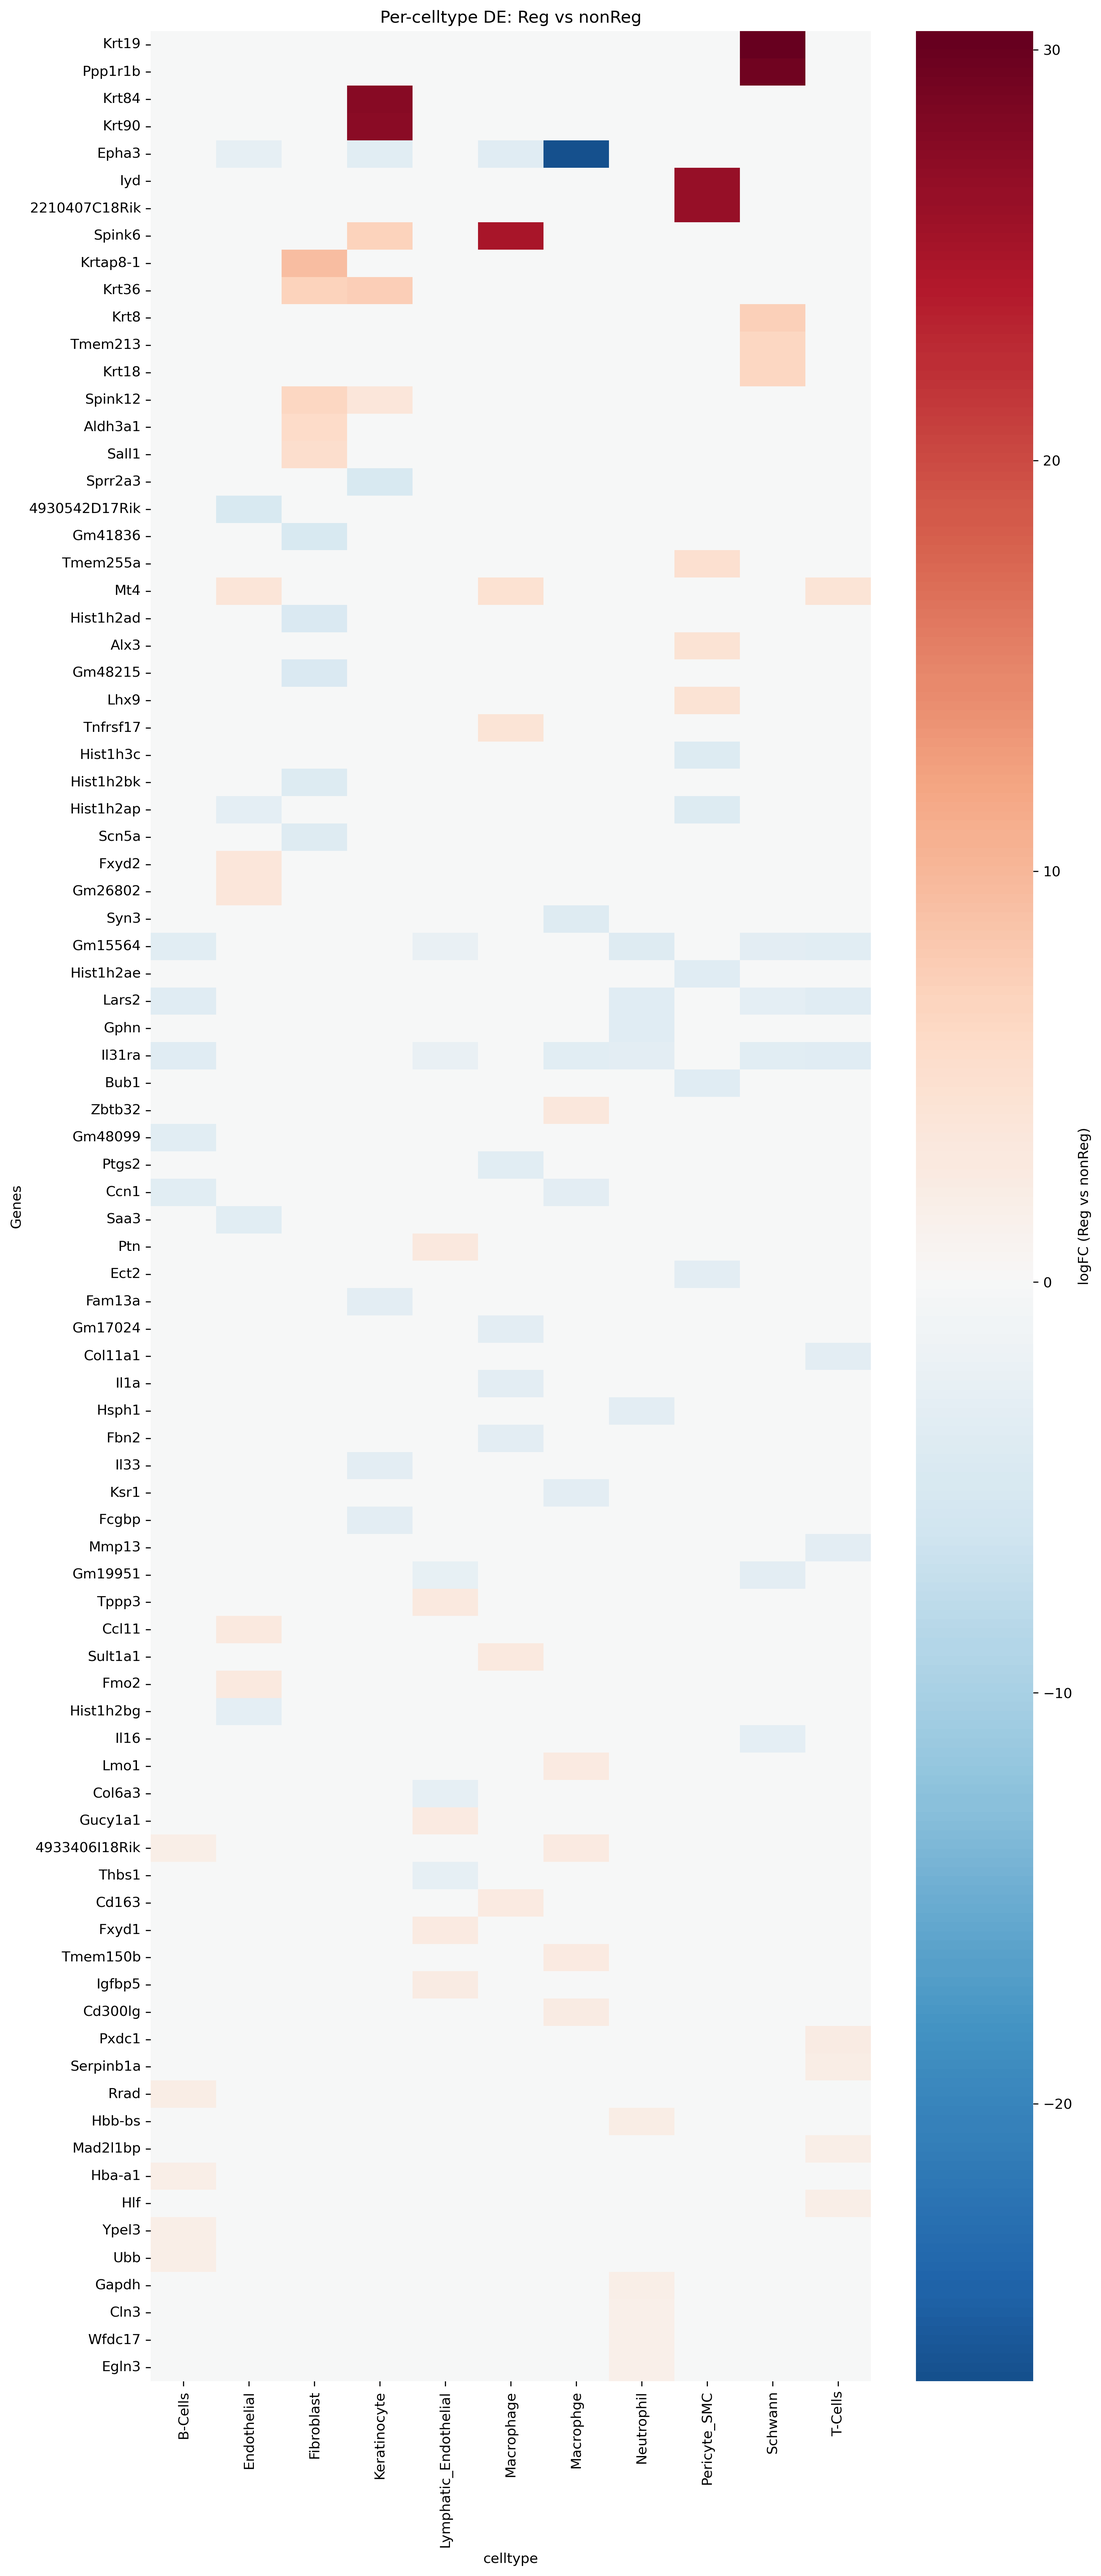
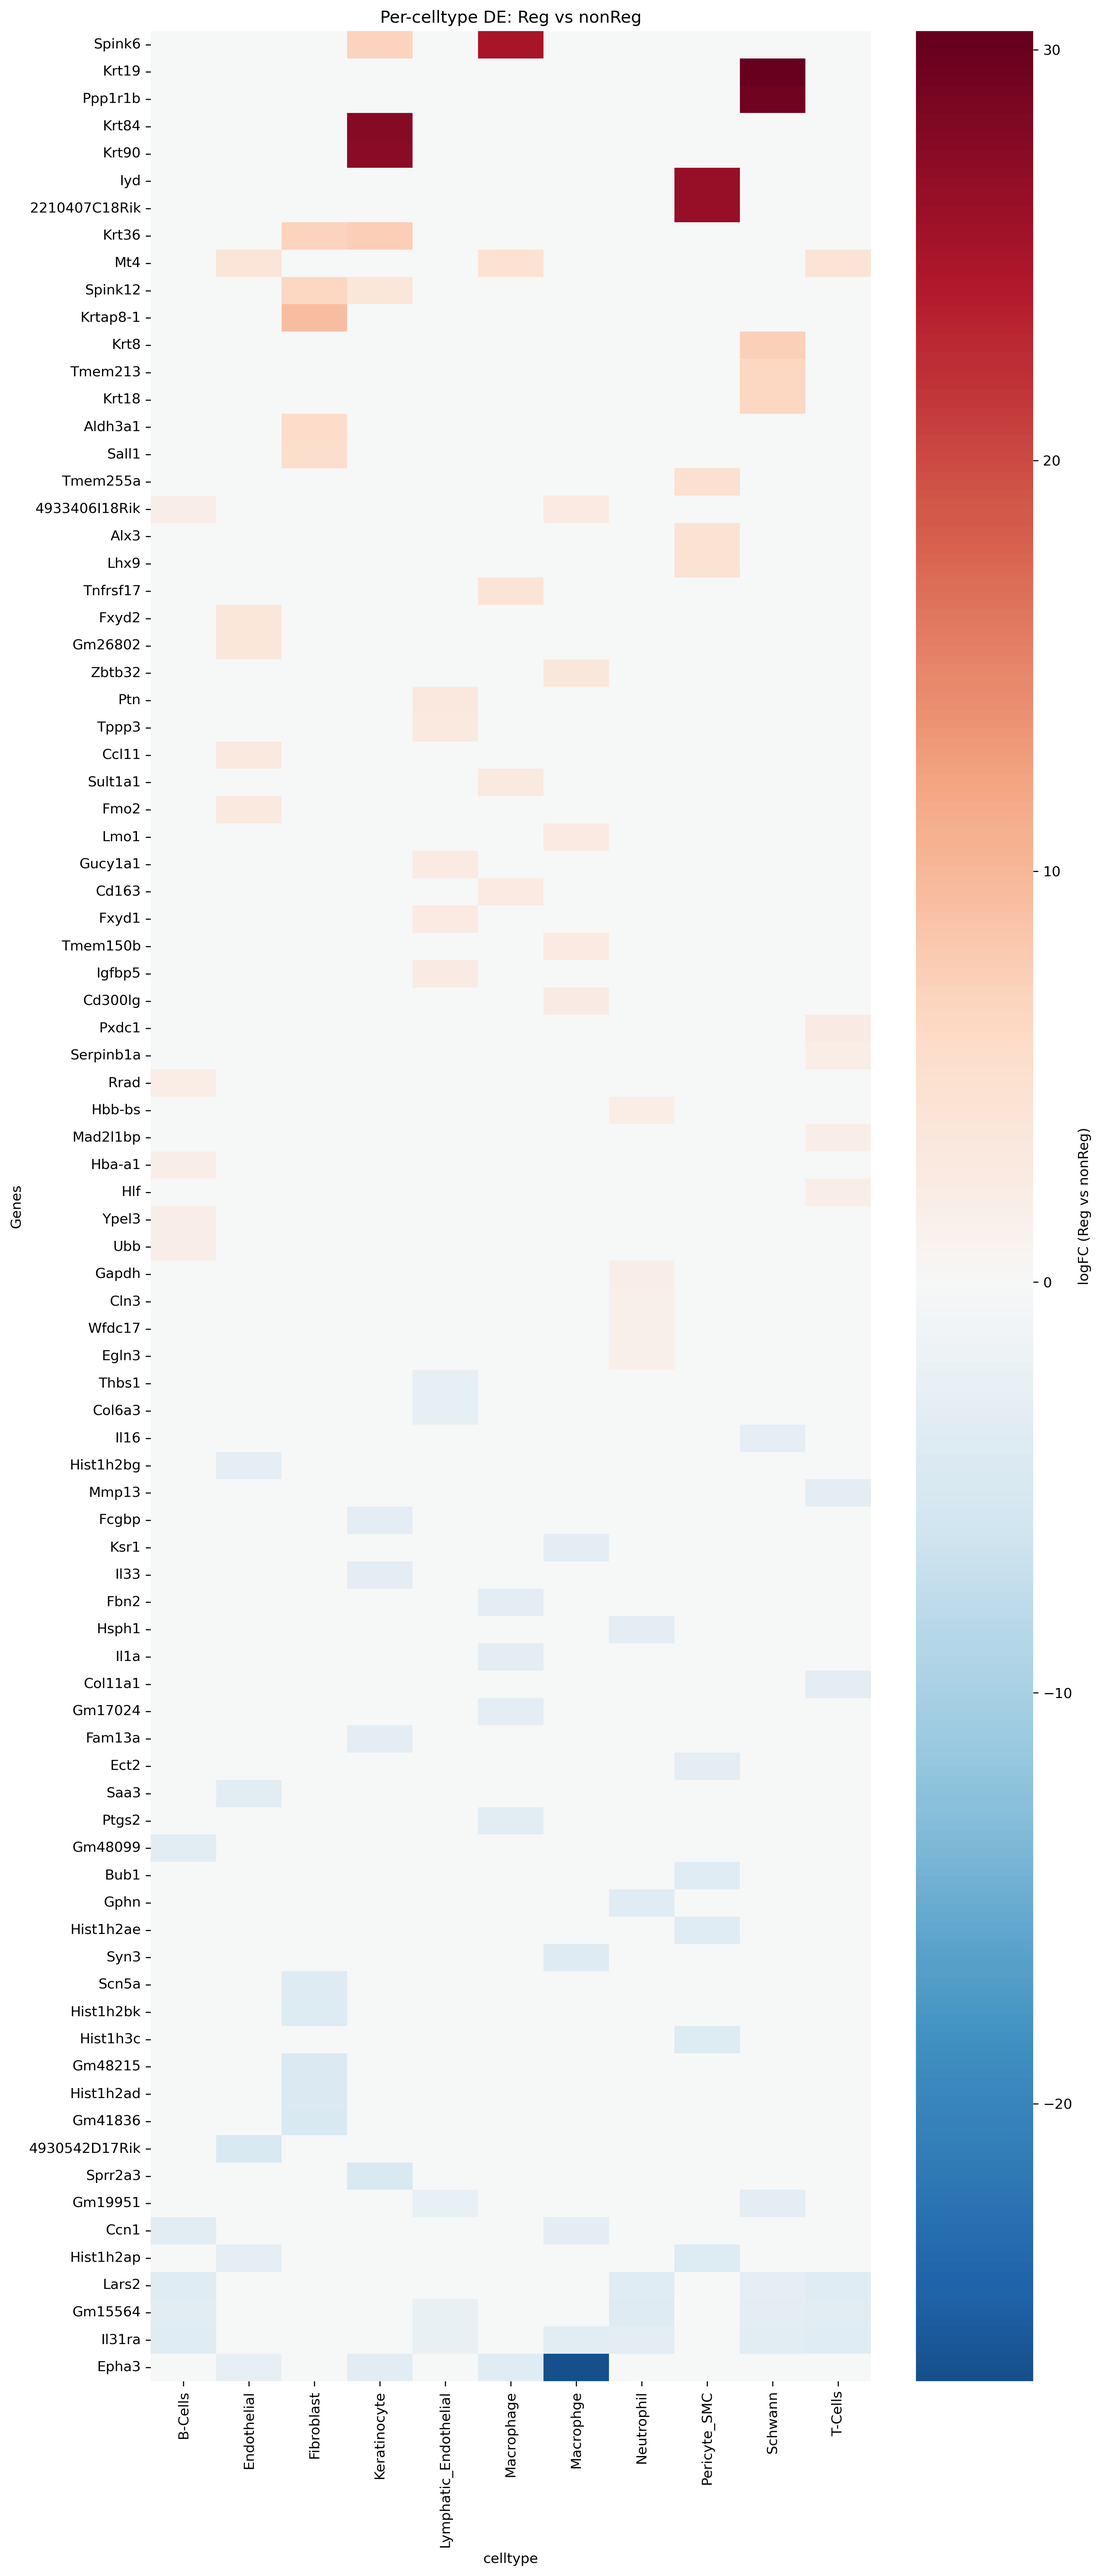
reorganise heatmap

diff --git a/src/dge_celltype.py b/src/dge_celltype.py
@@ -20,7 +20,7 @@ adata = sc.read_h5ad(args.input)
 all_results = []
 
 # ----------------------------
-# PER CELLTYPE DE (FIXED COLUMN NAME ONLY)
+# PER CELLTYPE DE
 # ----------------------------
 for ct in adata.obs["celltype"].unique():
 
@@ -32,7 +32,7 @@ for ct in adata.obs["celltype"].unique():
     sc.tl.rank_genes_groups(
         adata_ct,
         groupby="sample",
-        reference=args.reference,   # nonReg
+        reference=args.reference,
         method="wilcoxon",
         layer="log1p",
         use_raw=False
@@ -93,9 +93,9 @@ heatmap_df = plot_df.pivot(
     values="logfoldchanges"
 ).fillna(0)
 
-heatmap_df = heatmap_df.loc[
-    heatmap_df.abs().max(axis=1).sort_values(ascending=False).index
-]
+# keep previous improved ordering (unchanged)
+gene_order = heatmap_df.mean(axis=1).sort_values(ascending=False).index
+heatmap_df = heatmap_df.loc[gene_order]
 
 # ----------------------------
 # PLOT

diff --git a/README.md b/README.md
@@ -271,7 +271,7 @@ We performed global differential gene expression analysis between Reg and non-Re
 
 We performed differential gene expression analysis stratified by cell type to compare Reg and nonReg conditions. For each cell type, cells were subsetted and a Wilcoxon rank-sum test was applied using Scanpy’s `rank_genes_groups` function with `sample` as the grouping variable and nonReg set as the reference. This approach identifies genes that are differentially expressed in Reg relative to nonReg within each individual cell type, rather than across the full dataset. For each cell type, we extracted log fold-changes and adjusted p-values, filtered for statistically significant genes (adjusted p-value < threshold), and removed duplicate gene entries by retaining the strongest signal. The top N upregulated and downregulated genes per cell type were selected based on log fold-change and visualised in a heatmap summarising Reg versus nonReg effects across all cell types.
 
-![](figures/axt_celltype_heatmap.png?v=2)
+![](figures/axt_celltype_heatmap.png?v=3)
 
 ## Celltypes similarities between samples
 
